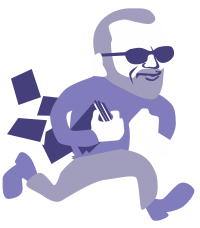
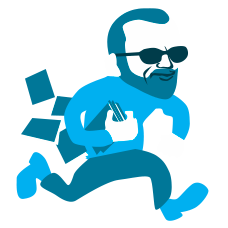
match colors better

diff --git a/static/css/application.css b/static/css/application.css
@@ -628,10 +628,10 @@ header {
   header h1:before {
     content: ' ';
     display: inline-block;
-    width: 100px;
+    width: 114px;
     height: 114px;
     background: url("/static/img/con-mon.png") no-repeat;
-    background-size: 100px 114px;
+    background-size: 114px 114px;
     vertical-align: middle; }
 
 .missing {
